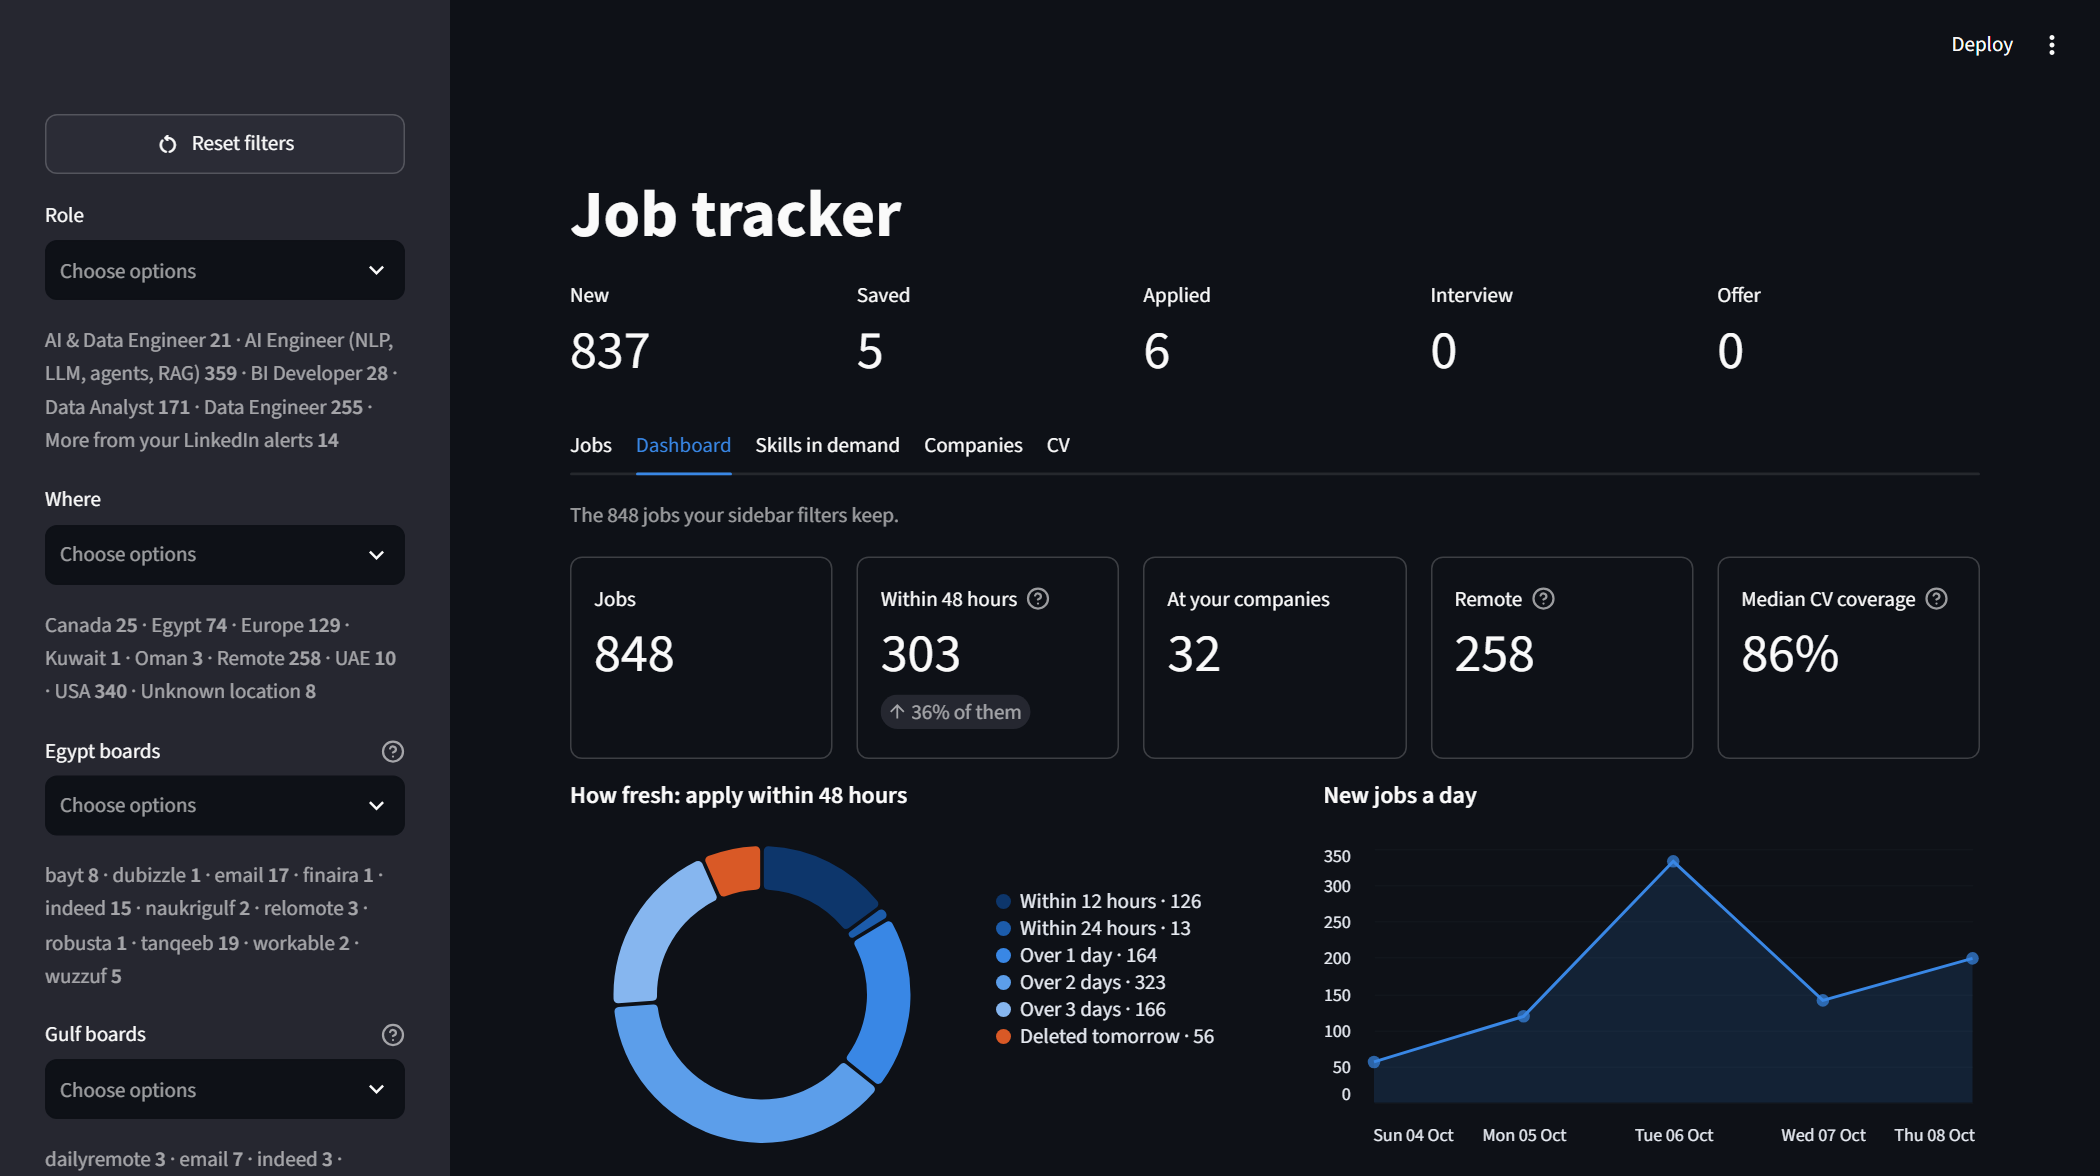
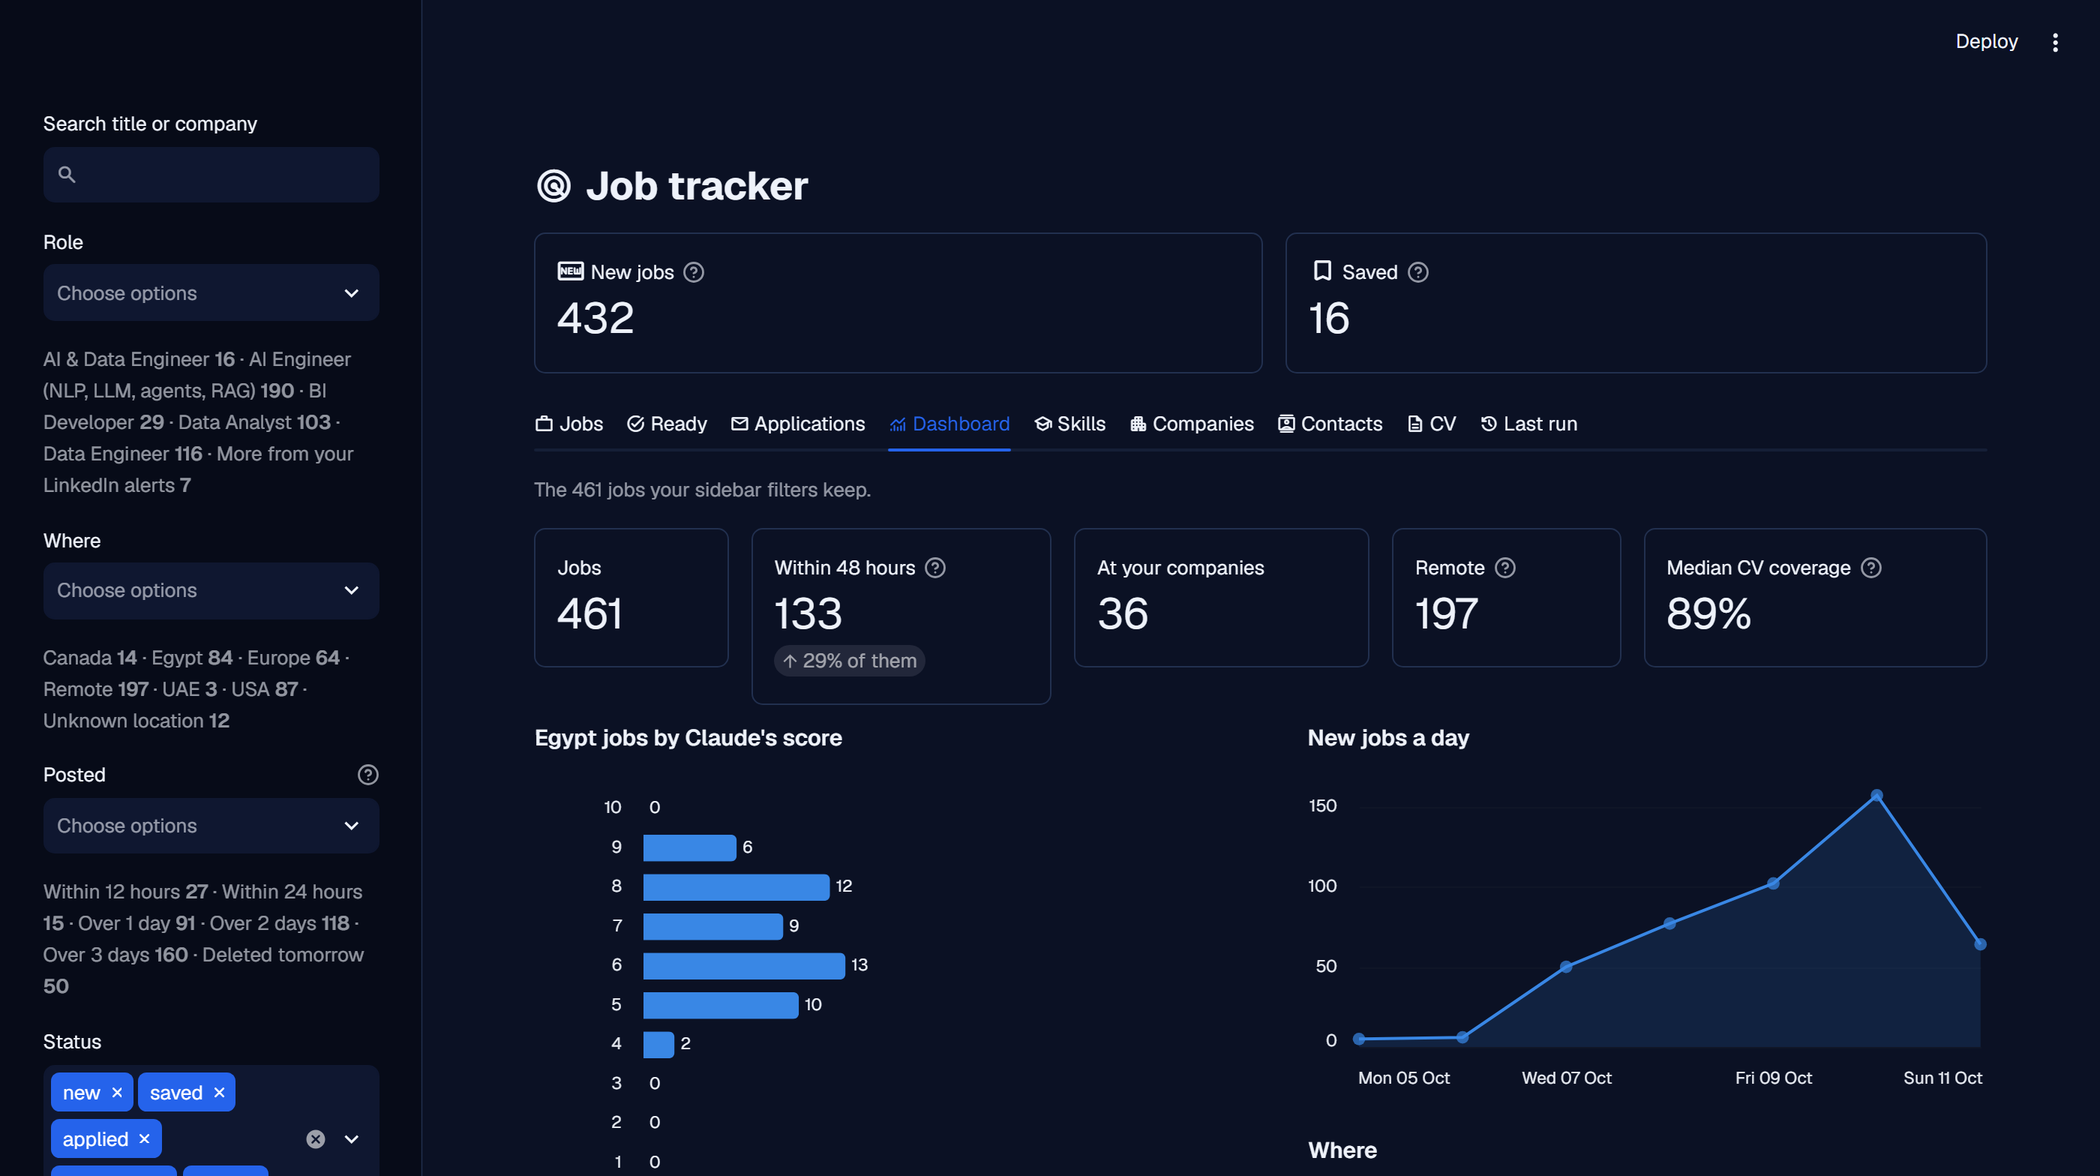
README: the new tracker look, eligibility hiding and application counts by company

diff --git a/README.md b/README.md
@@ -48,6 +48,8 @@ freelance. Jobs at your companies get a ⭐.
 - 📋 **Tracker**, port 8501: filter jobs (by role, place, the board in Egypt or the Gulf, and age: within
   12 or 24 hours, over 1, 2 or 3 days, or *deleted tomorrow*), mark saved / applied / interview / offer,
   see the skills each role asks for, Claude's score and why, the drafts ready to apply, your applications' funnel, your contacts, upload your CV, see how each company's careers page is read and each step's last run.
+  Jobs you cannot legally take from Cairo are hidden (the board's own "who can apply" field, else Claude Haiku), and your
+  applications are counted by company from your mailbox: applied, interviews, rejections, offers, and the ones that ghosted you.
 - 🌀 **Airflow**, port 8081: every run, every task's log, and *Trigger* to run now.
 - 🤖 **Claude**, `/job-radar` in Claude Code: reviews your matches, tailors your CV, helps you apply.
 - 🗄 **SQL**, port 5433 (database and user `jobradar`): query the `mart` views.
@@ -282,9 +284,9 @@ The collect DAG in Airflow's graph view, every task green:
 
 ![Airflow graph view of job_radar: schema, ten extract tasks side by side, then transform, describe, match_skills and export_career_ops, all successful](docs/airflow-dag.png)
 
-The tracker's Dashboard, with the sidebar's Egypt boards and Gulf boards filters:
+The tracker's Dashboard, in the brand's navy theme (light and dark follow the system):
 
-![The job tracker's Dashboard: counts by status; the sidebar's Role, Where, Egypt boards and Gulf boards filters with counts per option; a donut of how fresh the jobs are, from within 12 hours to over 3 days, with the jobs deleted tomorrow in orange; and new jobs a day](docs/app.png)
+![The job tracker's Dashboard on 11 October 2026: 432 new jobs and 16 saved; tabs Jobs, Ready, Applications, Dashboard, Skills, Companies, Contacts, CV and Last run; the sidebar's search, Role, Where and Posted filters with a count per option; 461 jobs kept, 133 within 48 hours, 36 at your companies, 197 remote, median CV coverage 89%; Egypt jobs by Claude's score from 10 down; and new jobs a day](docs/app.png)
 
 ## 🧰 Built with
 
